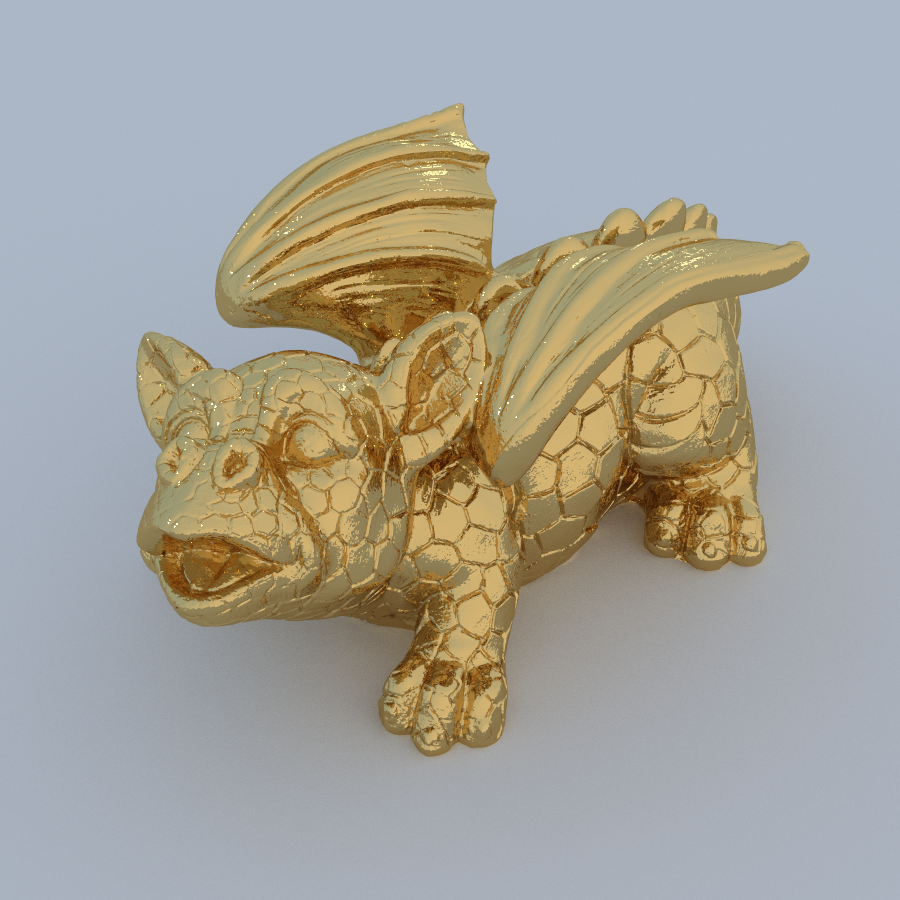
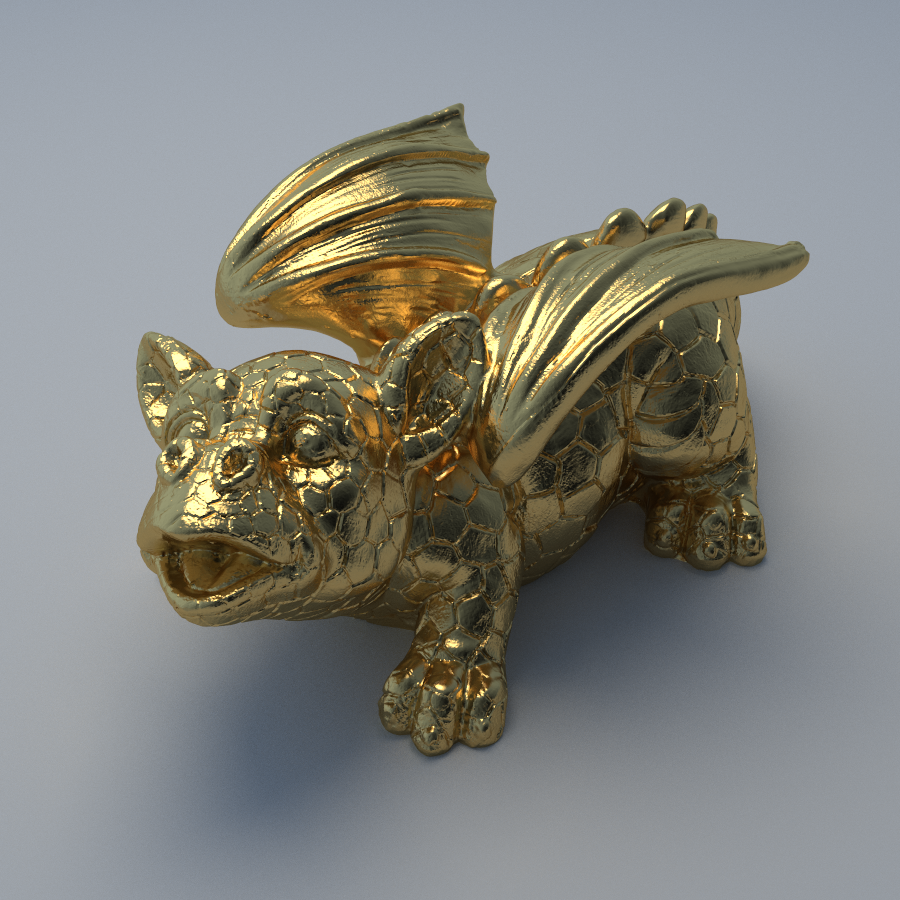
Improve lighting on dragon

diff --git a/pkg/scene/dragon.go b/pkg/scene/dragon.go
@@ -23,7 +23,7 @@ func NewDragonScene(loadMesh bool, cameraOverrides ...renderer.CameraConfig) *Sc
 	s := &Scene{
 		Camera:         camera,
 		TopColor:       core.NewVec3(0.5, 0.7, 1.0), // Light blue sky
-		BottomColor:    core.NewVec3(1.0, 1.0, 1.0), // White horizon
+		BottomColor:    core.NewVec3(0.0, 0.0, 0.0), // Dark horizon
 		Shapes:         make([]core.Shape, 0),
 		Lights:         make([]core.Light, 0),
 		SamplingConfig: createDragonSamplingConfig(),
@@ -90,13 +90,13 @@ func addDragonLighting(s *Scene) {
 
 	// Main key light - position away from camera view (higher Z, more positive Y)
 	s.AddSphereLight(
-		core.NewVec3(350, 200, 300),    // position (right, behind dragon, high up)
-		15.0,                           // smaller radius for sharper shadows
-		core.NewVec3(15.0, 14.0, 12.0), // reduced intensity
+		core.NewVec3(0, 200, 800), // position (right, behind dragon, high up)
+		300.0,                     // smaller radius for sharper shadows
+		core.NewVec3(15.0, 14.0, 12.0).Multiply(0.25), // reduced intensity
 	)
 
 	// Soft fill light - position on opposite side, away from camera
-	s.AddSphereLight(
+	/*s.AddSphereLight(
 		core.NewVec3(-250, 150, 200), // position (left, behind dragon, elevated)
 		25.0,                         // larger radius for soft fill
 		core.NewVec3(2.0, 2.5, 3.0),  // much dimmer fill
@@ -107,7 +107,7 @@ func addDragonLighting(s *Scene) {
 		core.NewVec3(100, 300, 400), // position (behind dragon, very high up)
 		10.0,                        // small radius for sharp rim
 		core.NewVec3(6.0, 5.0, 4.0), // slightly dimmer rim light
-	)
+	)*/
 }
 
 // addDragonGround adds a ground plane (matching PBRT scene at Z = -40)
@@ -148,24 +148,13 @@ func addDragonMesh(s *Scene) {
 		for _, path := range possiblePaths {
 			fmt.Printf("  - %s\n", path)
 		}
-		fmt.Println("Please ensure dragon_remeshed.ply is in the models/ directory")
-
-		// Add a placeholder sphere instead
-		dragonMaterial := material.NewMetal(core.NewVec3(0.7, 0.5, 0.2), 0.002) // Darker gold color with very low roughness
-		placeholder := geometry.NewSphere(
-			core.NewVec3(0, 1, 0), // center
-			1.0,                   // radius
-			dragonMaterial,
-		)
-		s.Shapes = append(s.Shapes, placeholder)
-		fmt.Println("Added placeholder sphere instead of dragon mesh")
 		return
 	}
 
 	// Create dragon material - mirror-like gold metal matching PBRT
 	// PBRT uses "float roughness" [.002] for very shiny metal
 	// Reduce brightness and adjust color to be more realistic
-	dragonMaterial := material.NewMetal(core.NewVec3(0.7, 0.5, 0.2), 0.002) // Darker gold color with very low roughness
+	dragonMaterial := material.NewMetal(core.NewVec3(0.7, 0.5, 0.2), 0.2) // Darker gold color with very low roughness
 
 	// Load the PLY data
 	fmt.Printf("Loading dragon mesh from %s...\n", dragonPath)

diff --git a/README.md b/README.md
@@ -29,6 +29,13 @@ Watch how the image quality improves with more samples per pixel:
 
 ## Sample Renders
 
+### Dragon Mesh
+<img src="renders/dragon-512samples.png" alt="Dragon Mesh" width=400>
+
+*Dragon PLY mesh with 1.8 million triangles demonstrating BVH performance*  
+*Model by [Bernhard Vogl](https://dativ.at/lightprobes/index.html) via [PBRT scenes](https://www.pbrt.org/scenes-v3)*  
+*512 samples • 7m22s render time*
+
 ### Default Scene
 ![Default Scene](renders/default-4096samples.png)
 
@@ -52,12 +59,6 @@ Watch how the image quality improves with more samples per pixel:
 
 *Complex triangle mesh geometry with procedurally generated shapes*  
 *1024 samples • 1m37s render time*
-
-### Dragon Mesh
-![Dragon Mesh](renders/dragon-512samples.png)
-
-*Stanford Dragon PLY mesh with 1.8 million triangles demonstrating BVH performance*  
-*512 samples • 8m21s render time*
 
 ## Quick Start
 
